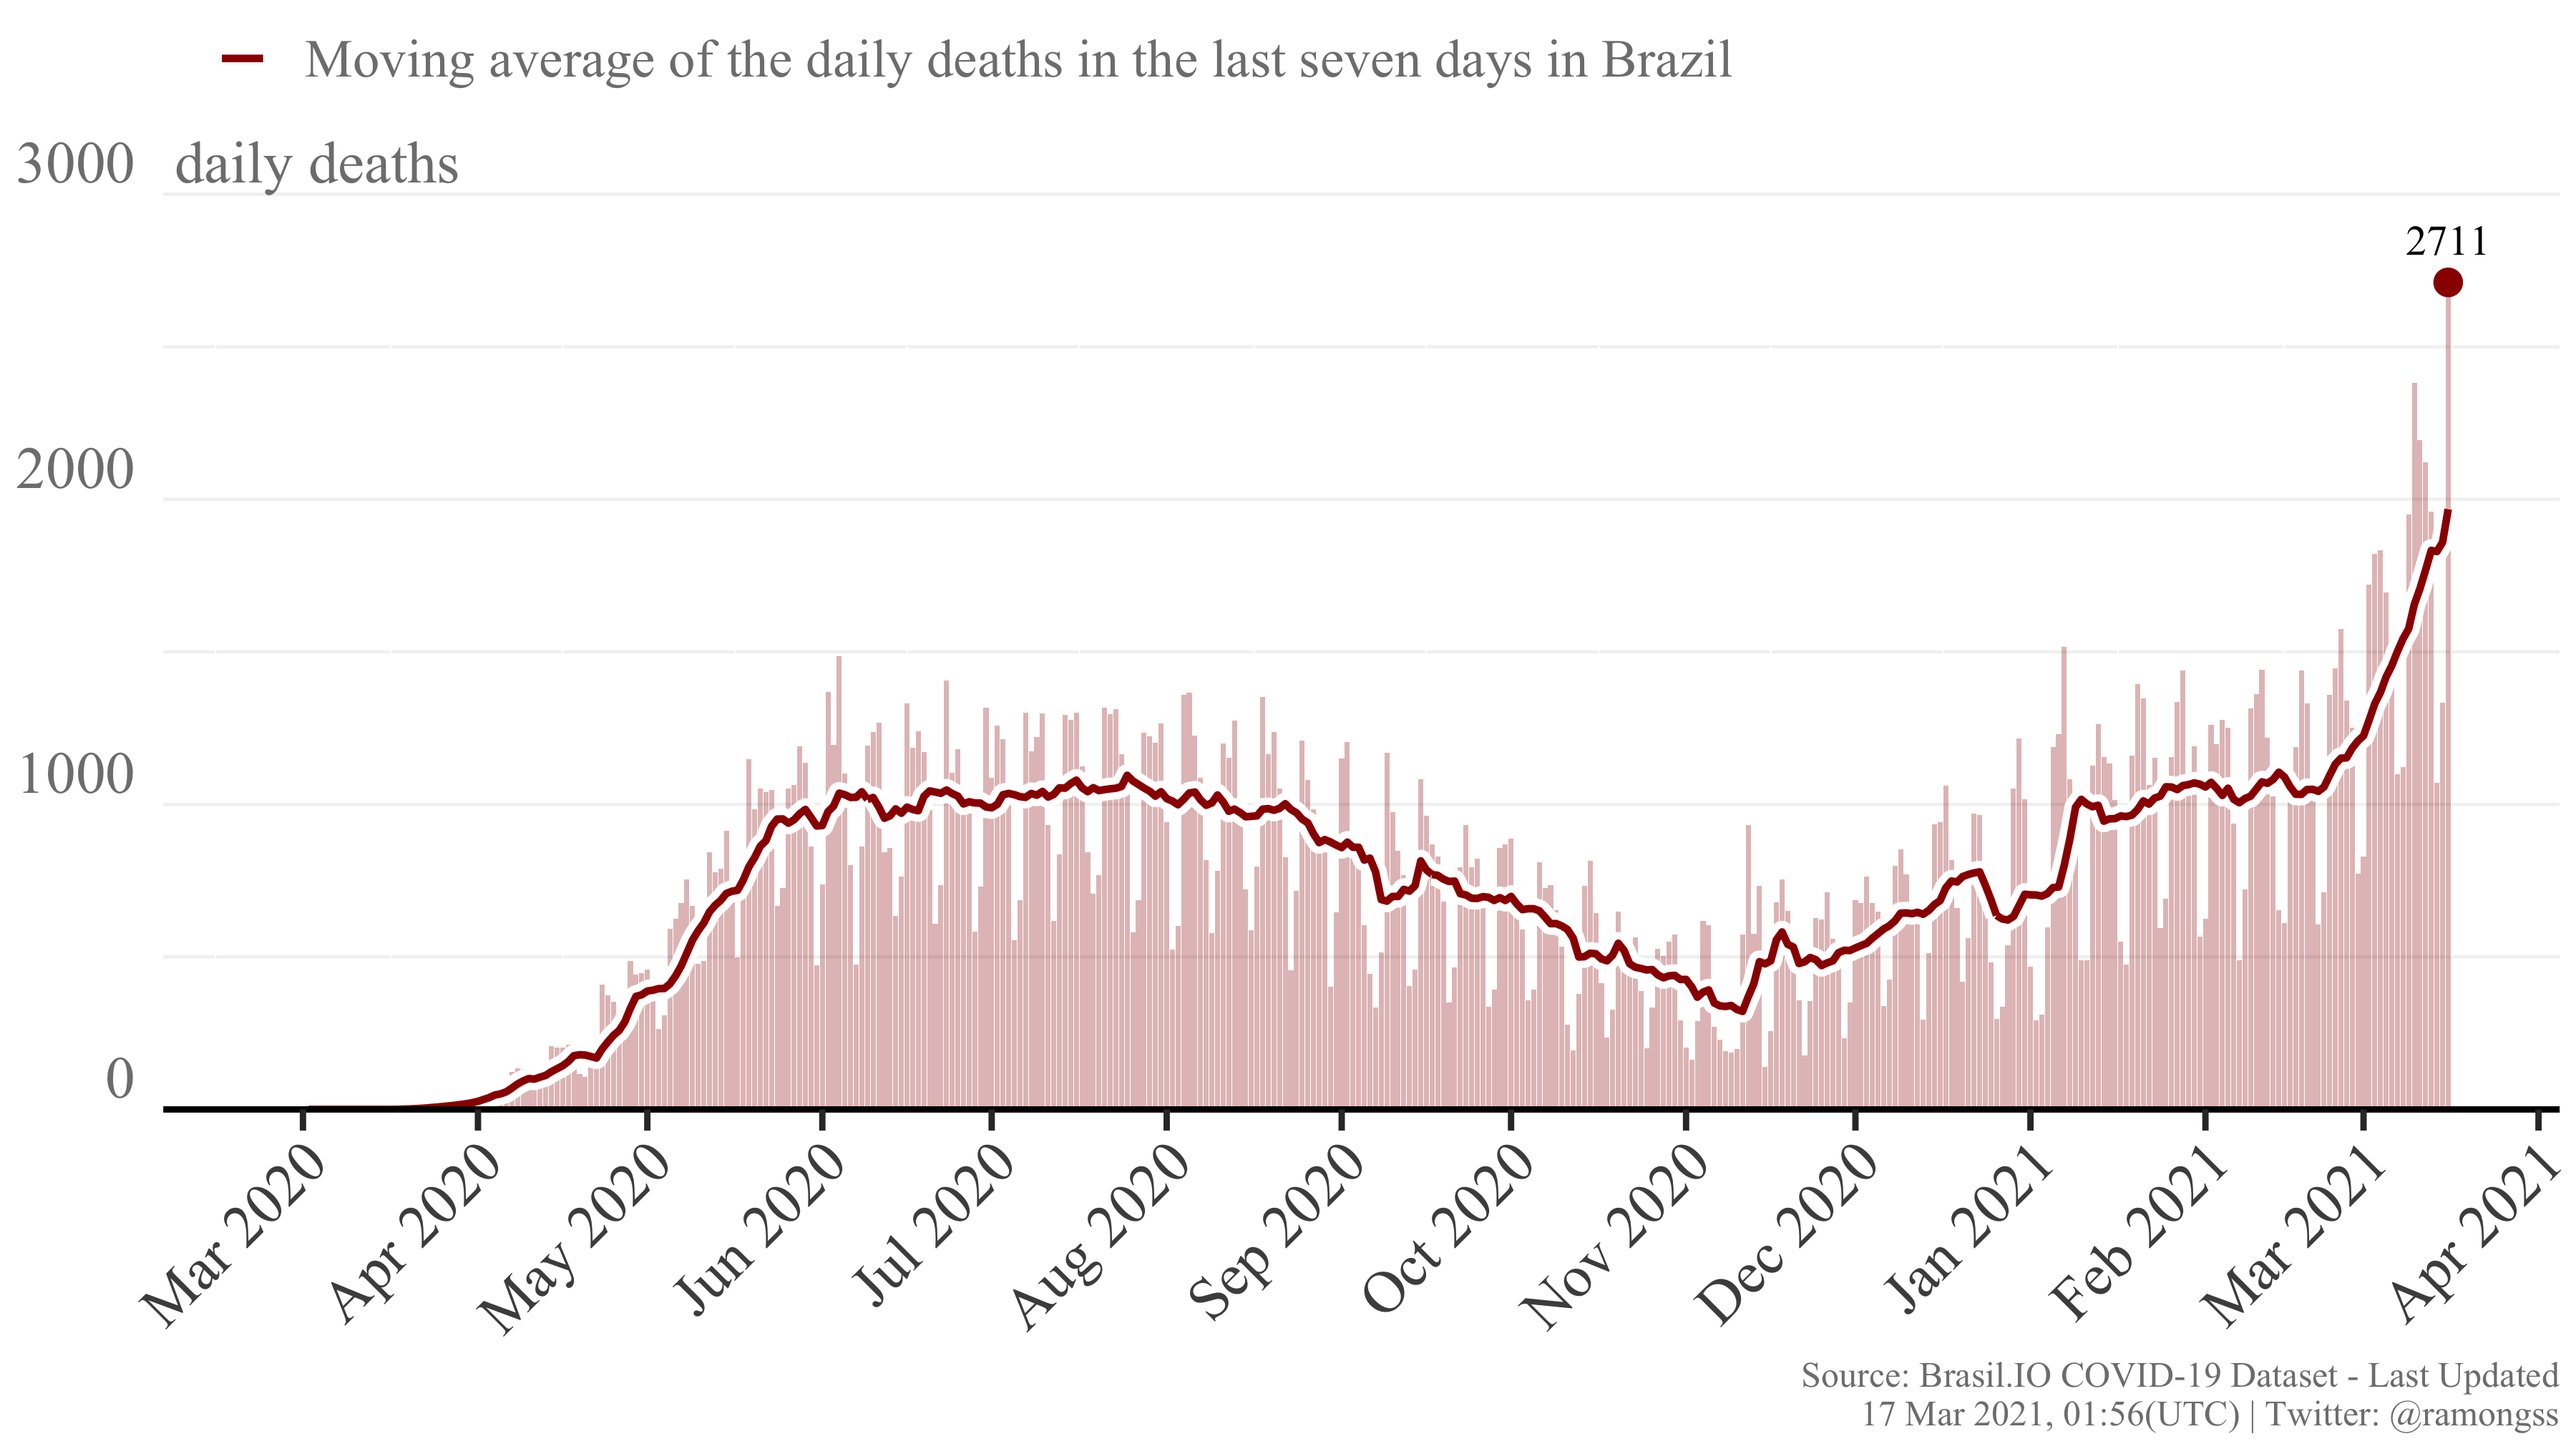
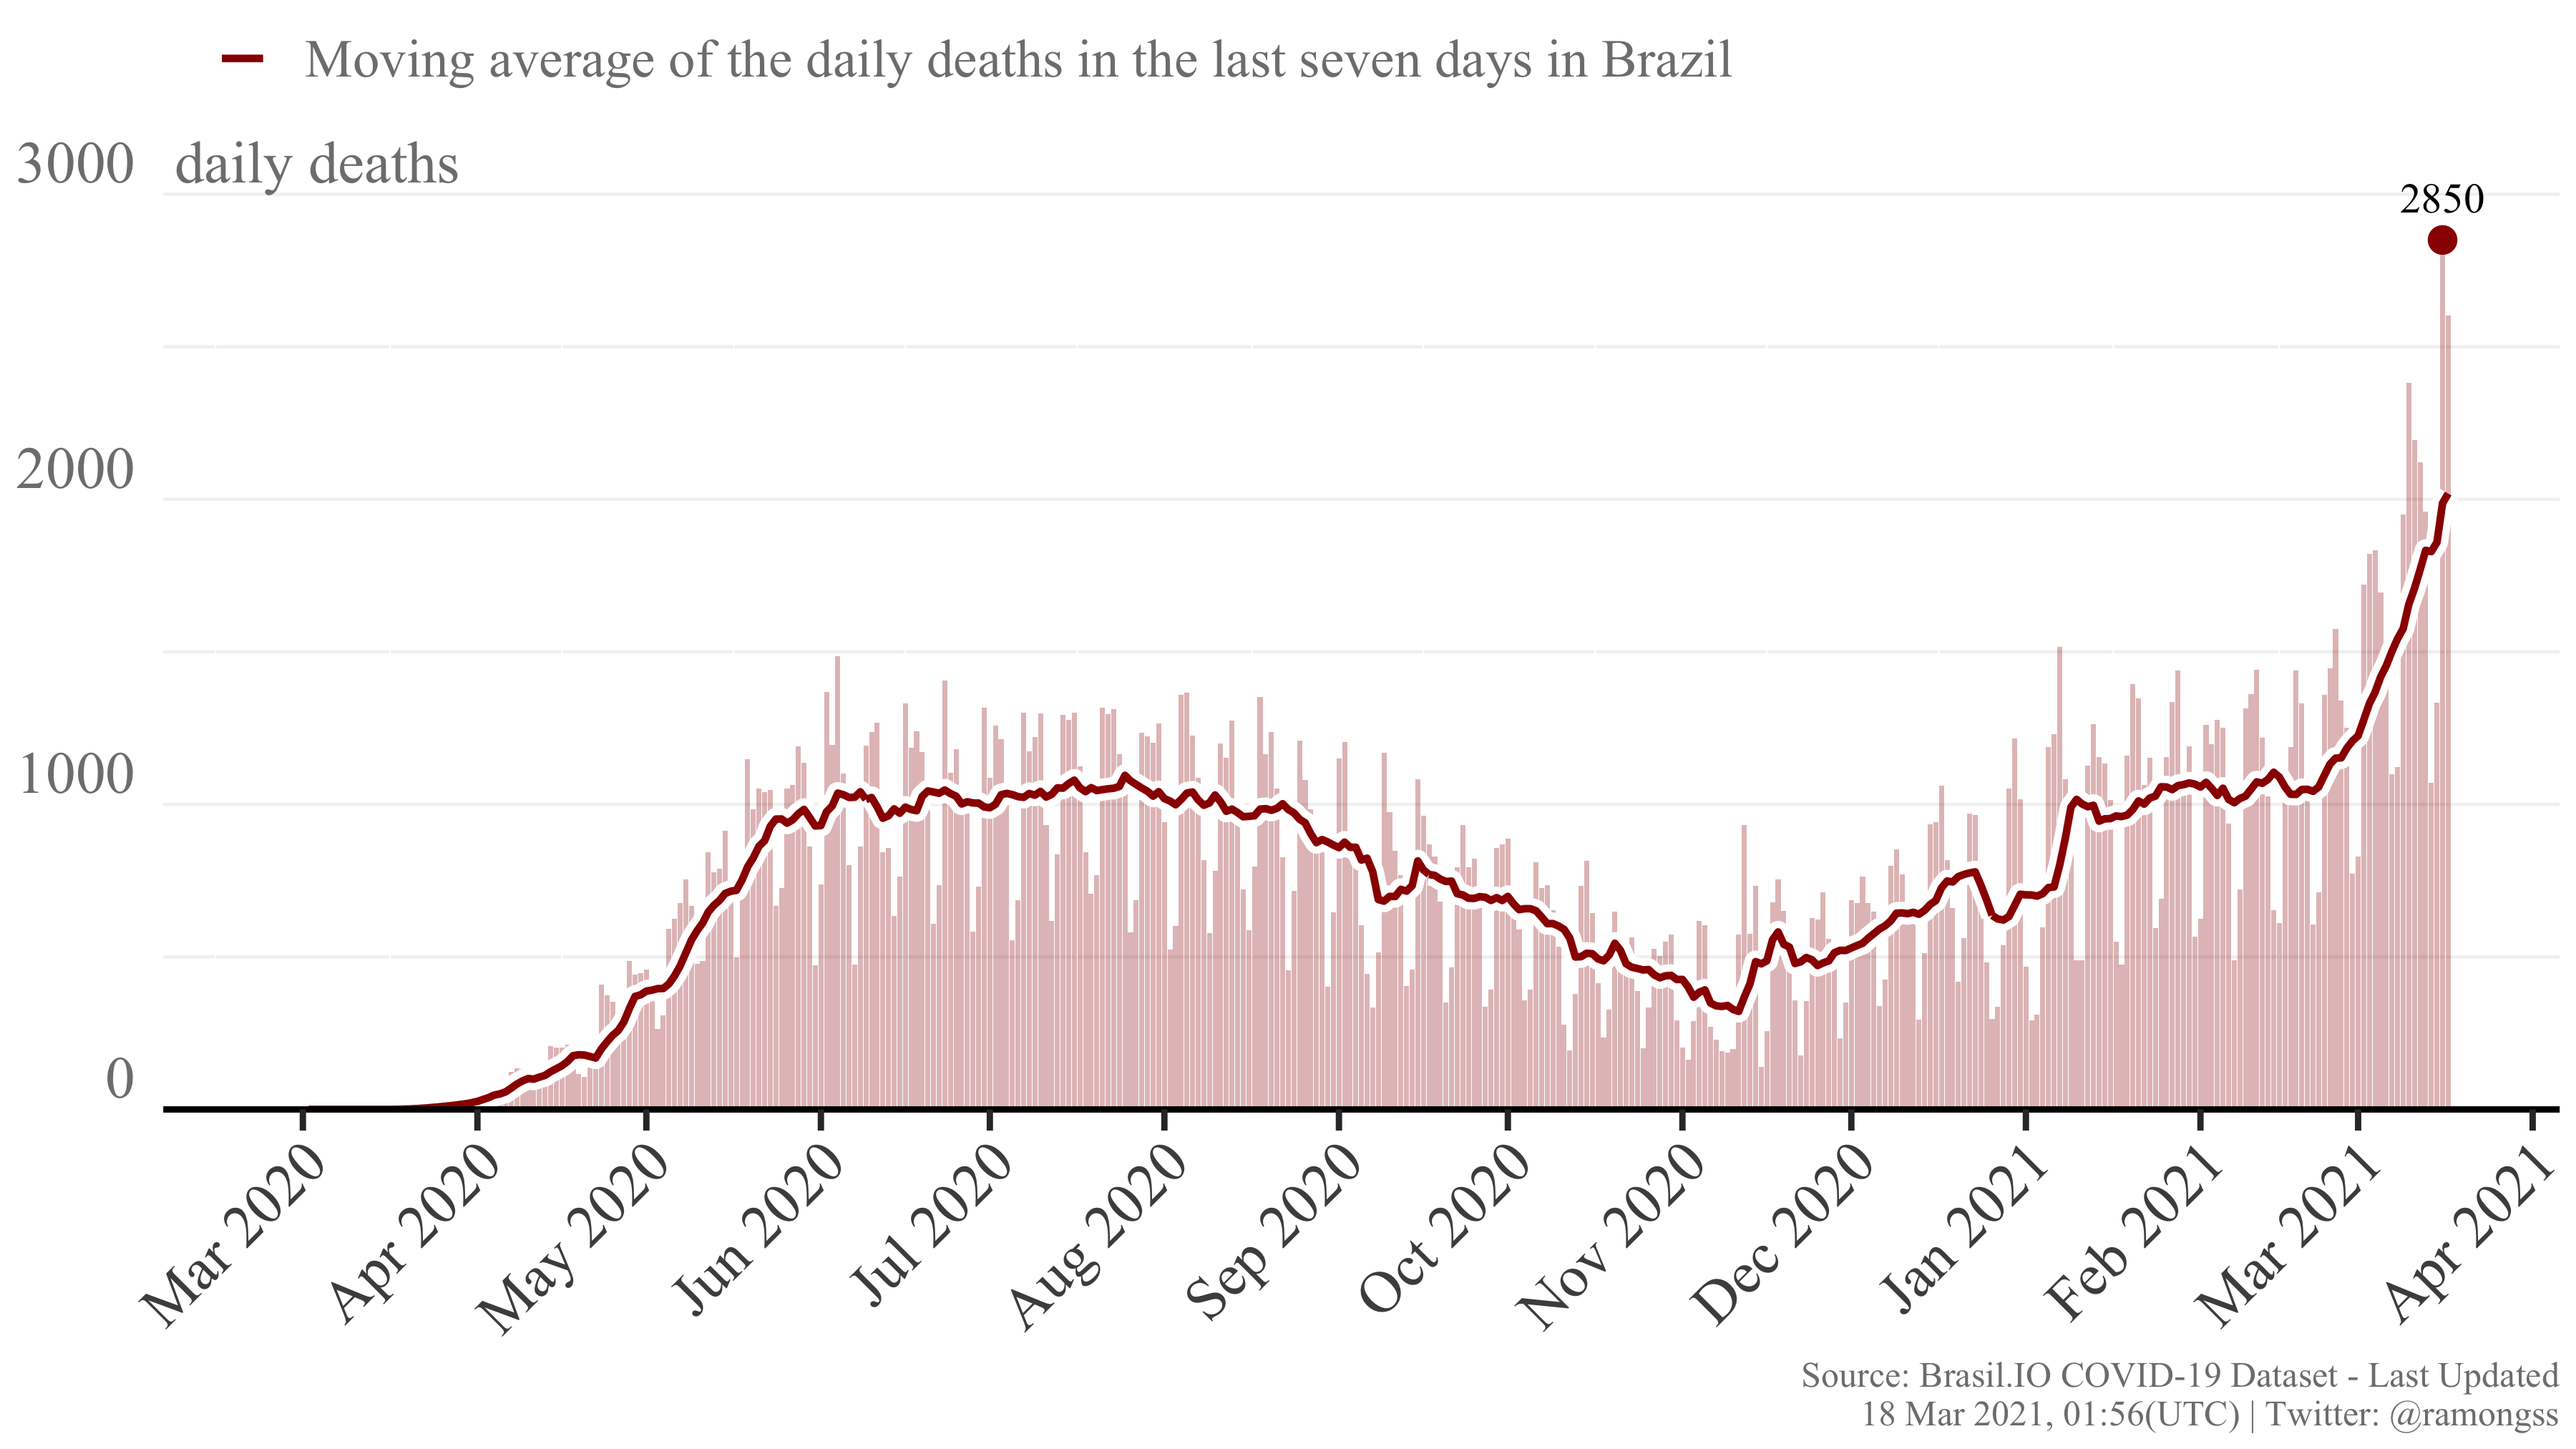
Re-build README.Rmd

diff --git a/README.md b/README.md
@@ -27,7 +27,7 @@ download_brasilio_table <- function(dataset = "covid19", table_name){
 
 ## COVID-19 Confirmed cases
 
-Currently, Brazil has a total of **11,615,771** confirmed cases at **16
+Currently, Brazil has a total of **11,706,639** confirmed cases at **17
 Mar, 2021**. The daily maximum incidence was **89,769** confirmed cases
 at **07 Jan, 2021**. Here follows the Figure showing the confirmed case
 incidence as the bars, and the line as the moving average of the last 7
@@ -37,8 +37,8 @@ days.
 
 ## COVID-19 Deaths
 
-Currently, Brazil has a total of **282,528** deaths at **16 Mar, 2021**.
-The daily maximum deaths incidence was **2,711** deaths at **16 Mar,
+Currently, Brazil has a total of **285,269** deaths at **17 Mar, 2021**.
+The daily maximum deaths incidence was **2,850** deaths at **16 Mar,
 2021**. Here follows the Figure showing the deaths incidence as the
 bars, and the line as the moving average of the last 7 days.
 
@@ -48,4 +48,4 @@ bars, and the line as the moving average of the last 7 days.
 
 This page is daily updated automatically using Github Actions.
 
-*Last update: 17 Mar 2021, 01:56 (UTC).*
+*Last update: 18 Mar 2021, 01:56 (UTC).*
